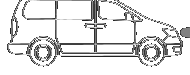
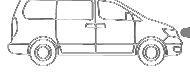
Add files via upload

diff --git a/index.html b/index.html
@@ -1187,16 +1187,16 @@
         <p style="font-size:14px;line-height:1.9;color:#aaa;margin-bottom:28px;">자동차 헤드라이트를 반사하는 <strong style="color:#fff;">재귀반사 소재를 적용</strong>하여 비 오는 밤에도 사용자의 존재를 뚜렷이 드러냅니다.</p>
 
         <p style="font-size:12px;color:#999;margin-bottom:10px;">재귀반사 (Retroreflection)</p>
-        <div style="display:flex;align-items:center;gap:0;margin-bottom:28px;flex-wrap:wrap;">
+        <div style="display:flex;align-items:center;gap:8px;margin-bottom:28px;flex-wrap:wrap;">
           <img src="ohi-van-retro.png" alt="van" style="height:54px;width:auto;"/>
-          <img src="ohi-beam-retro.png" alt="retroreflection beam" style="height:64px;width:auto;margin-left:-8px;"/>
+          <img src="ohi-beam-retro.png" alt="retroreflection beam" style="height:64px;width:auto;"/>
           <img src="ohi-glow-effect.png" alt="retroreflection effect" style="height:90px;width:auto;border-radius:8px;margin-left:16px;"/>
         </div>
 
         <p style="font-size:12px;color:#999;margin-bottom:10px;">일반반사 (Diffuse Reflection)</p>
-        <div style="display:flex;align-items:center;gap:0;flex-wrap:wrap;">
+        <div style="display:flex;align-items:center;gap:8px;flex-wrap:wrap;">
           <img src="ohi-van-diffuse.png" alt="van" style="height:54px;width:auto;"/>
-          <img src="ohi-beam-diffuse.png" alt="diffuse reflection beam" style="height:64px;width:auto;margin-left:-8px;"/>
+          <img src="ohi-beam-diffuse.png" alt="diffuse reflection beam" style="height:64px;width:auto;"/>
         </div>
       </div>
     </div>
